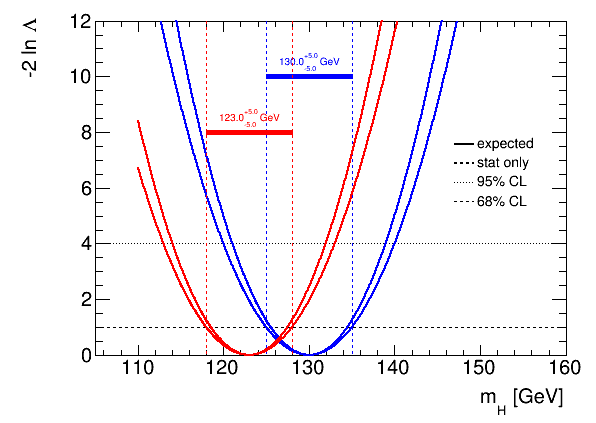
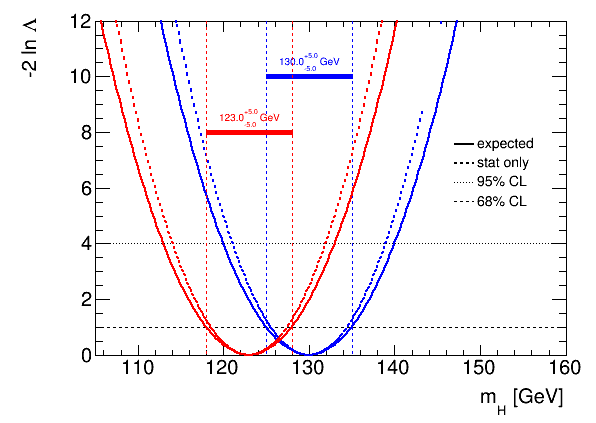
Github does not support inline svg anymore, so have to use png, but really, only eps seems to be good output.

diff --git a/example.py b/example.py
@@ -10,7 +10,7 @@ container = []
 
 def content( mHBestFit=130.0, height1SigmaLabel=10.0, color=ROOT.kBlue ):
 	# make mock curve
-	linSpace = [ 110 + i*40.0/1000.0 for i in range(1000) ]
+	linSpace = [ 100 + i*60.0/300.0 for i in range(300) ]
 	likelihood          = [ (x, (x-mHBestFit)*(x-mHBestFit)/25.0) for x in linSpace ]
 	likelihood_statOnly = [ (x, (x-mHBestFit)*(x-mHBestFit)/20.0) for x in linSpace ]
 	# draw curve

diff --git a/README.md b/README.md
@@ -20,6 +20,7 @@ pip install git+https://github.com/svenkreiss/PyROOTUtils.git
 [svg](doc/example.svg),
 [eps](doc/example.eps),
 [png](doc/example.png)
+... use eps for higher quality.
 
-![svg](doc/example.svg)
+![png](doc/example.png)
 
